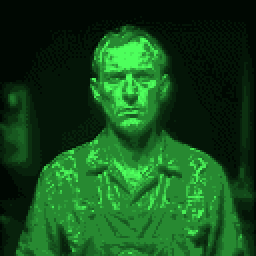
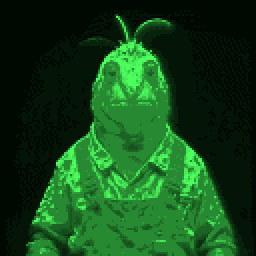
Default contrast 1.3: cleaner blacks, smaller files
Tried on the regenerated Tibedied lobster, which came out with its face in a
narrow band of midtones. 1.3 fixes that, and does something I did not expect:
it cleans up the background.

Near-black pixels were sitting right on a palette boundary, so Floyd-Steinberg
dithered them — filling empty space with speckle. Steepening pushes them to
true black and the dithering stops, which means the file gets SMALLER while
looking more detailed: 9739 B against 9868 B.

That is a general effect, not a quirk of this image, and it is an argument for
the boost being on by default rather than a per-image flag. 1.6 starts blowing
highlights; 1.3 is the useful end of the range.

Claude-Session: https://claude.ai/code/session_01Jner4MoBjPodfGxHns4BoM

diff --git a/tools/posterise.py b/tools/posterise.py
@@ -214,7 +214,12 @@ def main() -> int:
     ap.add_argument("--sharpen", type=float, default=1.6,
                     help="unsharp at full resolution before downsampling; 0 disables")
     ap.add_argument("--cutoff", type=int, default=2, help="autocontrast percentile clip")
-    ap.add_argument("--contrast", type=float, default=1.0,
+    # 1.3 rather than off. On the Tibedied lobster it does two things: pulls
+    # the face out of a narrow midtone band, and — less obviously — cleans the
+    # background. Near-black pixels sitting on a palette boundary get dithered,
+    # so empty space fills with speckle; pushing them to true black stops it,
+    # and the file gets SMALLER despite looking more detailed.
+    ap.add_argument("--contrast", type=float, default=1.3,
                     help="steepen the midtones; >1 boosts. Coarser --pixel wants more")
     # 128 into 256 = 2x2 blocks. Compared 2x2, 4x4 and 8x8 on the same raws,
     # then 4x4 again with contrast up to 2.5: the boost restores separation but
